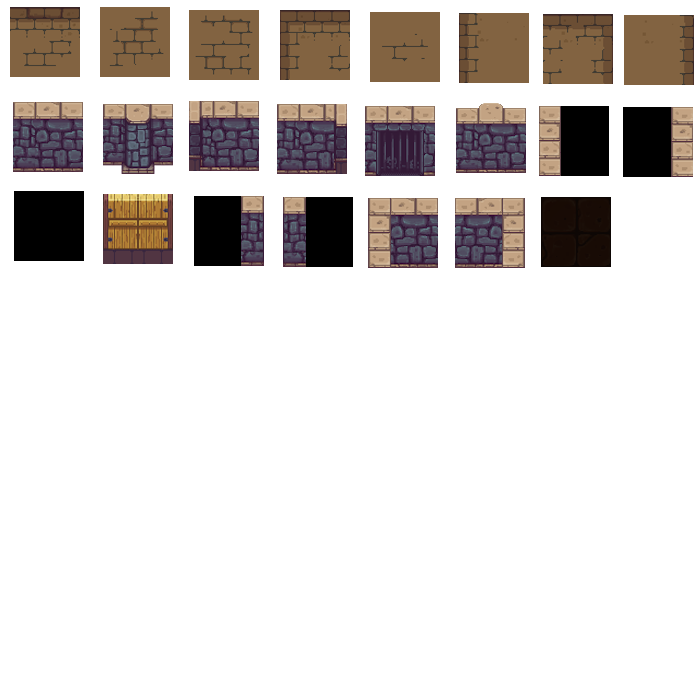
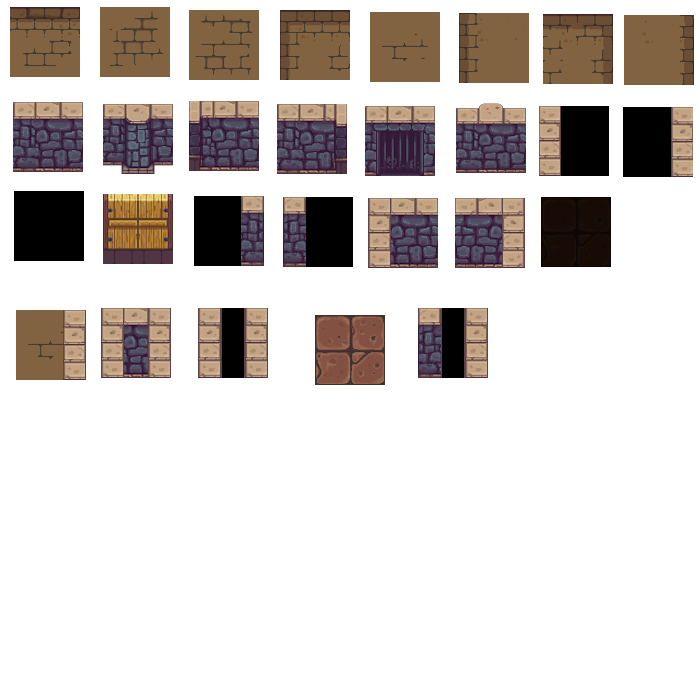
finish full map extension

Changed region(s): [[0.0, 0.42, 0.39, 0.54], [0.45, 0.45, 0.57, 0.57], [0.6, 0.42, 0.72, 0.54]]

diff --git a/dist/main.js b/dist/main.js
@@ -106,7 +106,7 @@ eval("__webpack_require__.r(__webpack_exports__);\n/* harmony export (binding) *
 /***/ (function(module, __webpack_exports__, __webpack_require__) {
 
 "use strict";
-eval("__webpack_require__.r(__webpack_exports__);\n/* harmony export (binding) */ __webpack_require__.d(__webpack_exports__, \"default\", function() { return Board; });\n/* harmony import */ var _player__WEBPACK_IMPORTED_MODULE_0__ = __webpack_require__(/*! ./player */ \"./src/player.js\");\n/* harmony import */ var _tile__WEBPACK_IMPORTED_MODULE_1__ = __webpack_require__(/*! ./tile */ \"./src/tile.js\");\n\r\n\r\n\r\nclass Board {\r\n  constructor() {\r\n    this.gameBoard = document.getElementById(\"gameBoard\"); \r\n    this.ctx = this.gameBoard.getContext('2d');\r\n    this.gameBoard.width = window.innerWidth;\r\n    this.gameBoard.height = window.innerHeight;\r\n    this.tileWidth = 70;\r\n    this.tileHeight = 70;\r\n    this.mapWidth = 36;\r\n    this.mapHeight = 31;\r\n    this.gameMap =  [\r\n  //   0   1   2   3  4   5   6   7   8   9   10  11  12  13  14  15  16  17  18  19  20  21  22  23  24  25  26  27  28  29  30  31  32  33  34  35\r\n      20, 20, 20, 20, 20, 20, 20, 20, 20, 20, 20, 20, 20, 20, 20, 20, 20, 20, 20, 28, 21, 21, 21, 21, 21, 14, 14, 14, 14, 14, 14, 14, 14, 14, 14, 14, // 0\r\n      20, 20, 20, 20, 20, 20, 20, 20, 20, 20, 20, 20, 20, 20, 20, 20, 20, 20, 20, 28, 18, 15, 15, 15, 15, 14, 14, 14, 14, 14, 14, 14, 14, 14, 14, 14,// 1\r\n      20, 20, 20, 20, 20, 20, 20, 20, 20, 20, 28, 21, 21, 21, 21, 21, 21, 21, 21, 21, 16, 14, 14, 14, 14, 14, 14, 14, 14, 14, 14, 14, 14, 14, 14, 14,// 2\r\n      20, 20, 20, 20, 20, 20, 20, 20, 20, 20, 28, 18, 15, 15, 15, 15, 15, 15, 15, 15, 14, 14, 14, 14, 14, 14, 14, 14, 14, 14, 14, 14, 14, 14, 14, 14,// 3\r\n      20, 20, 20, 20, 20, 20, 20, 20, 20, 20, 28, 16, 12, 12, 12, 12, 12, 12, 12, 12, 14, 14, 14, 14, 14, 14, 14, 14, 14, 14, 14, 14, 14, 14, 14, 14,// 4\r\n      20, 20, 20, 20, 20, 20, 20, 20, 20, 20, 28, 16, 12, 29, 20, 20, 20, 20, 20, 20, 14, 14, 14, 14, 14, 14, 14, 14, 14, 14, 14, 14, 14, 14, 14, 14,// 5\r\n      28, 21, 21, 21, 29, 20, 20, 20, 20, 20, 28, 16, 12, 29, 20, 20, 20, 20, 20, 20, 14, 14, 14, 14, 14, 14, 14, 14, 14, 14, 14, 14, 14, 14, 14, 14,// 6\r\n      28, 18, 15, 15, 29, 28, 21, 21, 21, 21, 25, 16, 14, 24, 21, 21, 21, 21, 21, 21, 14, 14, 14, 14, 14, 14, 14, 14, 14, 14, 14, 14, 14, 14, 14, 14,// 7\r\n      28, 16, 12, 14, 21, 21, 18, 15, 15, 15, 15, 14, 14, 15, 15, 15, 15, 15, 15, 15, 14, 14, 14, 14, 14, 14, 14, 14, 14, 14, 14, 14, 14, 14, 14, 14,// 8\r\n      28, 16, 12, 13, 15, 15, 12, 12, 14, 14, 14, 14, 14, 14, 14, 14, 14, 14, 14, 14, 14, 14, 14, 14, 14, 14, 14, 14, 14, 14, 14, 14, 14, 14, 14, 14,// 9\r\n      28, 16, 12, 12, 12, 13, 13, 12, 12, 12, 12, 12, 12, 12, 12, 12, 14, 14, 14, 14, 14, 14, 14, 14, 14, 14, 14, 14, 14, 14, 14, 14, 14, 14, 14, 14,// 10\r\n      28, 16, 14, 14, 14, 14, 13, 13, 12, 12, 12, 12, 12, 12, 12, 12, 12, 12, 12, 32, 33, 14, 14, 14, 14, 14, 14, 14, 14, 14, 14, 14, 14, 14, 14, 14,// 11\r\n      28, 16, 12, 12, 14, 14, 13, 12, 12, 12, 12, 12, 12, 12, 12, 12, 12, 12, 12, 29, 28, 14, 14, 14, 14, 14, 14, 14, 14, 14, 14, 14, 14, 14, 14, 14,// 12\r\n      28, 16, 12, 12, 32, 33, 16, 12, 12, 12, 12, 12, 12, 12, 12, 12, 12, 12, 12, 29, 28, 14, 14, 14, 14, 14, 14, 14, 14, 14, 14, 14, 14, 14, 14, 14,// 13\r\n      30, 21, 21, 21, 31, 30, 21, 21, 21, 21, 21, 21, 21, 21, 21, 21, 21, 21, 21, 31, 28, 14, 14, 14, 14, 14, 14, 14, 14, 14, 14, 14, 14, 14, 14, 14,// 14\r\n      20, 20, 20, 20, 20, 20, 20, 20, 20, 20, 20, 20, 20, 20, 20, 20, 20, 20, 20, 20, 28, 14, 14, 14, 14, 14, 14, 14, 14, 14, 14, 14, 14, 14, 14, 14,// 15\r\n      20, 20, 14, 14, 14, 14, 14, 14, 14, 14, 14, 14, 14, 14, 14, 14, 14, 14, 14, 14, 14, 14, 14, 14, 14, 14, 14, 14, 14, 14, 14, 14, 14, 14, 14, 14,// 16\r\n      20, 14, 14, 14, 14, 14, 14, 14, 14, 14, 14, 14, 14, 14, 14, 14, 14, 14, 14, 14, 14, 14, 14, 14, 14, 14, 14, 14, 14, 14, 14, 14, 14, 14, 14, 14,// 17\r\n      20, 14, 14, 14, 14, 20, 20, 20, 20, 14, 14, 14, 20, 20, 20, 20, 20, 20, 20, 20, 14, 14, 14, 14, 14, 14, 14, 14, 14, 14, 14, 14, 14, 14, 14, 14,// 18\r\n      20, 14, 14, 14, 14, 20, 20, 20, 20, 14, 14, 14, 20, 20, 20, 20, 20, 20, 20, 20, 14, 14, 14, 14, 14, 14, 14, 14, 14, 14, 14, 14, 14, 14, 14, 14,//19\r\n      20, 14, 14, 14, 14, 20, 20, 20, 20, 14, 14, 14, 20, 20, 20, 20, 20, 20, 20, 20, 14, 14, 14, 14, 14, 14, 14, 14, 14, 14, 14, 14, 14, 14, 14, 14,// 20\r\n      20, 14, 14, 14, 14, 20, 20, 20, 20, 21, 21, 21, 20, 20, 20, 20, 20, 20, 20, 20, 20, 20, 20, 20, 20, 14, 14, 14, 14, 14, 14, 14, 14, 14, 14, 14,// 21\r\n      20, 14, 14, 14, 14, 14, 14, 14, 14, 14, 14, 14, 20, 20, 20, 20, 20, 20, 20, 20, 14, 14, 14, 14, 14, 14, 14, 14, 14, 14, 14, 14, 14, 14, 14, 14,// 22\r\n      20, 20, 20, 20, 20, 20, 20, 20, 20, 14, 14, 14, 20, 20, 20, 20, 20, 20, 20, 20, 14, 14, 14, 14, 14, 14, 14, 14, 14, 14, 14, 14, 14, 14, 14, 14,// 23\r\n      20, 20, 20, 20, 20, 20, 20, 20, 20, 14, 14, 14, 20, 20, 20, 20, 20, 20, 20, 20, 14, 14, 14, 14, 14, 14, 14, 14, 14, 14, 14, 14, 14, 14, 14, 14,// 24\r\n      20, 20, 20, 20, 20, 20, 20, 20, 20, 14, 14, 14, 20, 20, 20, 20, 20, 20, 20, 20, 14, 14, 14, 14, 14, 14, 14, 14, 14, 14, 14, 14, 14, 14, 14, 14,// 25\r\n      20, 20, 20, 20, 20, 20, 20, 20, 20, 14, 14, 14, 20, 20, 20, 20, 20, 20, 20, 20, 14, 14, 14, 14, 14, 14, 14, 14, 14, 14, 14, 14, 14, 14, 14, 14,// 26\r\n      20, 20, 20, 20, 20, 20, 20, 20, 20, 20, 20, 20, 20, 20, 20, 20, 20, 20, 20, 20, 14, 14, 14, 14, 14, 14, 14, 14, 14, 14, 14, 14, 14, 14, 14, 14,// 27\r\n      20, 20, 20, 20, 20, 20, 20, 20, 20, 20, 20, 20, 20, 20, 20, 20, 20, 20, 20, 20, 14, 14, 14, 14, 14, 14, 14, 14, 14, 14, 14, 14, 14, 14, 14, 14,// 28\r\n      20, 20, 20, 20, 20, 20, 20, 20, 20, 20, 20, 20, 20, 20, 20, 20, 20, 20, 20, 20, 14, 14, 14, 14, 14, 14, 14, 14, 14, 14, 14, 14, 14, 14, 14, 14,// 29\r\n      20, 20, 20, 20, 20, 20, 20, 20, 20, 20, 20, 20, 20, 20, 20, 20, 20, 20, 20, 20, 14, 14, 14, 14, 14, 14, 14, 14, 14, 14, 14, 14, 14, 14, 14, 14// 30\r\n\r\n    ]; \r\n    \r\n    this.viewPort = {\r\n      screen: [0, 0],\r\n      startTile: [0, 0],\r\n      endTile: [0, 0],\r\n      offset: [0, 0],\r\n      update: function(px, py) {\r\n        this.offset[0] = Math.floor((this.screen[0] / 2) - px)\r\n        this.offset[1] = Math.floor((this.screen[1] / 2) - py)\r\n\r\n        let tile = [ Math.floor(px / 70), Math.floor(py / 70) ]\r\n\r\n        this.startTile[0] = tile[0] - 1 - Math.ceil((this.screen[0] / 2) / 70)\r\n        this.startTile[1] = tile[1] - 1 - Math.ceil((this.screen[1] / 2) / 70)\r\n\r\n        if (this.startTile[0] < 0) this.startTile[0] = 0;\r\n        if (this.startTile[1] < 0) this.startTile[1] = 0;\r\n\r\n\r\n        this.endTile[0] = tile[0] + 1 + Math.ceil((this.screen[0] / 2) / 70)\r\n        this.endTile[1] = tile[1] + 1 + Math.ceil((this.screen[1] / 2) / 70)\r\n\r\n        if (this.endTile[0] >= 37) this.endTile[0] = 37 - 1;\r\n        if (this.endTile[1] >= 32) this.endTile[1] = 32 - 1;\r\n      }\r\n    }\r\n    \r\n    this.floorTypes = {\r\n      solid: 0,\r\n      walkable: 1\r\n    };\r\n\r\n\r\n    this.tileTypes = {\r\n      20: { type: \"outOfMap\", floor: this.floorTypes.solid, sprite: new _tile__WEBPACK_IMPORTED_MODULE_1__[\"default\"]([14, 191], [70, 70]) },\r\n      21: { type: \"xWall\", floor: this.floorTypes.solid, sprite: new _tile__WEBPACK_IMPORTED_MODULE_1__[\"default\"]([13, 102], [70, 70]) },\r\n      22: { type: \"xWallPillDown\", floor: this.floorTypes.solid, sprite: new _tile__WEBPACK_IMPORTED_MODULE_1__[\"default\"]([103, 104], [70, 70]) },\r\n      23: { type: \"xWallPillUp\", floor: this.floorTypes.solid, sprite: new _tile__WEBPACK_IMPORTED_MODULE_1__[\"default\"]([456, 108], [70, 70]) },\r\n      24: { type: \"xWallDoorFrameR\", floor: this.floorTypes.solid, sprite: new _tile__WEBPACK_IMPORTED_MODULE_1__[\"default\"]([189, 101], [70, 70]) },\r\n      25: { type: \"xWallDoorFrameL\", floor: this.floorTypes.solid, sprite: new _tile__WEBPACK_IMPORTED_MODULE_1__[\"default\"]([277, 105], [70, 69]) },\r\n      26: { type: \"xDoor\", floor: this.floorTypes.solid, sprite: new _tile__WEBPACK_IMPORTED_MODULE_1__[\"default\"]([103, 194], [70, 70]) },\r\n      27: { type: \"xWallDecor\", floor: this.floorTypes.solid, sprite: new _tile__WEBPACK_IMPORTED_MODULE_1__[\"default\"]([165, 106], [70, 70]) },\r\n      28: { type: \"yWallL\", floor: this.floorTypes.solid, sprite: new _tile__WEBPACK_IMPORTED_MODULE_1__[\"default\"]([623, 107], [70, 70]) },\r\n      29: { type: \"yWallR\", floor: this.floorTypes.solid, sprite: new _tile__WEBPACK_IMPORTED_MODULE_1__[\"default\"]([539, 106], [70, 70]) },\r\n      // 10: { type: \"yDoor\", floor: this.floorTypes.solid, sprite: new Tile([13, 95], [70, 70]) },\r\n      // 11: { type: \"spikes\", floor: this.floorTypes.solid, sprite: new Tile([13, 95], [70, 70]) },\r\n      12: { type: \"groundReg\", floor: this.floorTypes.walkable, sprite: new _tile__WEBPACK_IMPORTED_MODULE_1__[\"default\"]([100, 7], [70, 70]) },\r\n      13: { type: \"groundReg2\", floor: this.floorTypes.walkable, sprite: new _tile__WEBPACK_IMPORTED_MODULE_1__[\"default\"]([189, 10], [70, 70]) },\r\n      14: { type: \"groundReg3\", floor: this.floorTypes.walkable, sprite: new _tile__WEBPACK_IMPORTED_MODULE_1__[\"default\"]([370, 12], [70, 70]) },\r\n      15: { type: \"groundTop\", floor: this.floorTypes.walkable, sprite: new _tile__WEBPACK_IMPORTED_MODULE_1__[\"default\"]([10, 7], [70, 70]) },\r\n      16: { type: \"groundL\", floor: this.floorTypes.walkable, sprite: new _tile__WEBPACK_IMPORTED_MODULE_1__[\"default\"]([459, 13], [70, 70]) },\r\n      17: { type: \"groundR\", floor: this.floorTypes.walkable, sprite: new _tile__WEBPACK_IMPORTED_MODULE_1__[\"default\"]([624, 15], [70, 70]) },\r\n      18: { type: \"groundLCorner\", floor: this.floorTypes.walkable, sprite: new _tile__WEBPACK_IMPORTED_MODULE_1__[\"default\"]([280, 10], [70, 70]) },\r\n      19: { type: \"groundRCorner\", floor: this.floorTypes.walkable, sprite: new _tile__WEBPACK_IMPORTED_MODULE_1__[\"default\"]([543, 14], [70, 70]) },\r\n      30: { type: \"bottomCornerPillL\", floor: this.floorTypes.solid, sprite: new _tile__WEBPACK_IMPORTED_MODULE_1__[\"default\"]([194, 196], [70, 70]) },\r\n      31: { type: \"bottomCornerPillR\", floor: this.floorTypes.solid, sprite: new _tile__WEBPACK_IMPORTED_MODULE_1__[\"default\"]([283, 197], [70, 70]) },\r\n      32: { type: \"bottomCornerUpL\", floor: this.floorTypes.solid, sprite: new _tile__WEBPACK_IMPORTED_MODULE_1__[\"default\"]([368, 198], [70, 70]) },\r\n      33: { type: \"bottomCornerUpR\", floor: this.floorTypes.solid, sprite: new _tile__WEBPACK_IMPORTED_MODULE_1__[\"default\"]([455, 198], [70, 70]) }\r\n    };\r\n\r\n    // this.directions = {\r\n    //   up: 0,\r\n    //   right: 1,\r\n    //   down: 2,\r\n    //   left: 3\r\n    // };\r\n  }\r\n\r\n\r\n};\r\n\r\n\r\n\n\n//# sourceURL=webpack:///./src/board.js?");
+eval("__webpack_require__.r(__webpack_exports__);\n/* harmony export (binding) */ __webpack_require__.d(__webpack_exports__, \"default\", function() { return Board; });\n/* harmony import */ var _player__WEBPACK_IMPORTED_MODULE_0__ = __webpack_require__(/*! ./player */ \"./src/player.js\");\n/* harmony import */ var _tile__WEBPACK_IMPORTED_MODULE_1__ = __webpack_require__(/*! ./tile */ \"./src/tile.js\");\n\r\n\r\n\r\nclass Board {\r\n  constructor() {\r\n    this.gameBoard = document.getElementById(\"gameBoard\"); \r\n    this.ctx = this.gameBoard.getContext('2d');\r\n    this.gameBoard.width = window.innerWidth;\r\n    this.gameBoard.height = window.innerHeight;\r\n    this.tileWidth = 70;\r\n    this.tileHeight = 70;\r\n    this.mapWidth = 36;\r\n    this.mapHeight = 31;\r\n    this.gameMap =  [\r\n  //   0   1   2   3  4   5   6   7   8   9   10  11  12  13  14  15  16  17  18  19  20  21  22  23  24  25  26  27  28  29  30  31  32  33  34  35\r\n      20, 20, 20, 20, 20, 20, 20, 20, 20, 20, 20, 20, 20, 20, 20, 20, 20, 20, 20, 28, 21, 21, 21, 21, 21, 21, 21, 21, 21, 21, 21, 21, 21, 21, 21, 29, // 0\r\n      20, 20, 20, 20, 20, 20, 20, 20, 20, 20, 20, 20, 20, 20, 20, 20, 20, 20, 20, 28, 18, 15, 15, 15, 15, 14, 14, 14, 14, 14, 14, 14, 14, 14, 14, 29,// 1\r\n      20, 20, 20, 20, 20, 20, 20, 20, 20, 20, 28, 21, 21, 21, 21, 21, 21, 21, 21, 21, 16, 14, 14, 14, 14, 14, 14, 14, 14, 14, 14, 14, 14, 14, 14, 29,// 2\r\n      20, 20, 20, 20, 20, 20, 20, 20, 20, 20, 28, 18, 15, 15, 15, 15, 15, 15, 15, 15, 14, 14, 14, 32, 21, 21, 33, 14, 14, 32, 21, 21, 33, 14, 14, 29,// 3\r\n      20, 20, 20, 20, 20, 20, 20, 20, 20, 20, 28, 16, 12, 12, 12, 12, 12, 12, 12, 12, 14, 14, 14, 29, 20, 20, 28, 14, 14, 29, 20, 20, 28, 14, 14, 29,// 4\r\n      20, 20, 20, 20, 20, 20, 20, 20, 20, 20, 28, 16, 12, 32, 21, 21, 21, 21, 21, 33, 16, 14, 14, 29, 28, 21, 21, 14, 14, 21, 21, 29, 28, 14, 14, 29,// 5\r\n      28, 21, 21, 21, 29, 20, 20, 20, 20, 20, 28, 16, 12, 29, 20, 20, 20, 20, 20, 28, 16, 14, 14, 29, 28, 14, 14, 14, 14, 14, 14, 29, 30, 33, 14, 29,// 6\r\n      28, 18, 15, 15, 29, 28, 21, 21, 21, 21, 25, 16, 14, 24, 21, 21, 21, 21, 21, 21, 16, 14, 14, 29, 28, 14, 14, 14, 14, 14, 14, 29, 20, 28, 14, 29,// 7\r\n      28, 16, 12, 14, 21, 21, 18, 15, 15, 15, 15, 14, 14, 15, 15, 15, 15, 15, 15, 15, 14, 14, 14, 29, 28, 14, 14, 14, 14, 14, 14, 29, 28, 21, 14, 29,// 8\r\n      28, 16, 12, 13, 15, 15, 12, 12, 14, 14, 14, 14, 14, 14, 14, 14, 14, 14, 14, 14, 14, 14, 14, 29, 28, 14, 14, 14, 14, 14, 14, 29, 28, 14, 14, 29,// 9\r\n      28, 16, 12, 12, 12, 13, 13, 12, 12, 12, 12, 12, 12, 12, 12, 12, 14, 14, 14, 14, 14, 14, 14, 29, 28, 14, 14, 14, 14, 14, 14, 29, 28, 14, 32, 31,// 10\r\n      28, 16, 14, 14, 14, 14, 13, 13, 12, 12, 12, 12, 12, 12, 12, 12, 12, 12, 12, 32, 33, 14, 14, 29, 28, 14, 14, 14, 14, 14, 14, 29, 28, 14, 29, 20,// 11\r\n      28, 16, 12, 12, 14, 14, 13, 12, 12, 12, 12, 12, 12, 12, 12, 12, 12, 12, 12, 29, 28, 14, 14, 21, 21, 14, 14, 14, 14, 14, 14, 21, 21, 14, 21, 33,// 12\r\n      28, 16, 12, 12, 32, 33, 16, 12, 12, 12, 12, 12, 12, 12, 12, 12, 12, 12, 12, 29, 28, 14, 14, 14, 14, 14, 14, 14, 14, 14, 14, 14, 14, 14, 14, 36,// 13\r\n      30, 21, 21, 21, 31, 30, 21, 21, 33, 21, 21, 21, 32, 21, 21, 21, 21, 21, 21, 31, 28, 14, 14, 32, 33, 14, 14, 14, 14, 14, 14, 32, 21, 33, 14, 36,// 14\r\n      20, 20, 20, 20, 20, 20, 20, 20, 28, 14, 14, 14, 29, 20, 20, 20, 20, 20, 20, 20, 28, 14, 14, 29, 28, 14, 14, 14, 14, 14, 14, 29, 20, 28, 14, 36,// 15\r\n      28, 21, 21, 21, 21, 21, 21, 21, 21, 14, 14, 14, 21, 21, 21, 21, 21, 21, 21, 21, 21, 14, 14, 29, 28, 14, 14, 14, 14, 14, 14, 29, 20, 28, 14, 36,// 16\r\n      28, 14, 14, 14, 14, 14, 14, 14, 14, 14, 14, 14, 14, 14, 14, 14, 14, 14, 14, 14, 14, 14, 14, 29, 30, 21, 33, 14, 14, 32, 21, 31, 28, 21, 14, 32,// 17\r\n      28, 14, 14, 14, 14, 32, 21, 21, 33, 14, 14, 14, 14, 14, 14, 14, 14, 14, 14, 14, 14, 14, 14, 29, 20, 20, 28, 14, 14, 29, 20, 20, 28, 14, 14, 29,// 18\r\n      28, 14, 14, 14, 14, 29, 20, 20, 28, 14, 14, 14, 35, 21, 21, 21, 21, 21, 21, 35, 14, 14, 14, 21, 21, 21, 21, 14, 14, 21, 21, 21, 21, 14, 14, 29,//19\r\n      28, 14, 14, 14, 14, 29, 20, 20, 28, 14, 14, 14, 34, 14, 14, 12, 12, 12, 12, 34, 14, 14, 14, 14, 14, 14, 14, 14, 14, 14, 14, 14, 14, 14, 14, 29,// 20\r\n      28, 14, 14, 14, 14, 29, 20, 20, 30, 21, 21, 21, 37, 14, 14, 12, 12, 12, 12, 34, 21, 21, 21, 21, 33, 14, 14, 14, 14, 14, 32, 21, 33, 14, 14, 33,// 21\r\n      28, 14, 14, 14, 14, 29, 20, 20, 20, 20, 20, 20, 28, 14, 14, 12, 12, 12, 12, 34, 20, 20, 20, 20, 28, 14, 14, 14, 14, 14, 29, 20, 28, 14, 14, 36,// 22\r\n      28, 14, 32, 21, 21, 31, 20, 20, 20, 20, 20, 20, 28, 14, 14, 12, 12, 12, 12, 34, 20, 20, 20, 20, 28, 14, 14, 14, 14, 14, 29, 28, 21, 14, 14, 36,// 23\r\n      28, 14, 29, 20, 20, 20, 20, 20, 20, 20, 20, 20, 28, 14, 14, 12, 12, 12, 12, 34, 20, 20, 20, 20, 28, 14, 14, 14, 14, 14, 29, 28, 14, 14, 14, 36,// 24\r\n      28, 14, 21, 21, 21, 21, 21, 29, 20, 20, 20, 20, 28, 14, 14, 12, 12, 12, 12, 34, 20, 20, 20, 20, 28, 14, 14, 14, 14, 14, 29, 28, 14, 14, 14, 36,// 25\r\n      28, 14, 14, 14, 14, 14, 14, 29, 20, 28, 21, 21, 34, 14, 14, 12, 32, 21, 21, 37, 21, 21, 21, 21, 21, 21, 21, 21, 21, 21, 29, 30, 21, 33, 14, 36,// 26\r\n      30, 33, 14, 14, 14, 14, 14, 29, 20, 28, 14, 14, 21, 14, 14, 12, 29, 20, 20, 28, 14, 14, 14, 14, 14, 14, 14, 14, 14, 14, 29, 20, 20, 28, 14, 36,// 27\r\n      20, 28, 14, 14, 14, 14, 14, 21, 21, 21, 14, 14, 14, 14, 14, 12, 21, 21, 21, 21, 14, 32, 21, 21, 21, 21, 33, 14, 14, 14, 21, 21, 21, 21, 14, 36,// 28\r\n      20, 28, 14, 14, 14, 14, 14, 14, 14, 14, 14, 14, 32, 33, 14, 12, 14, 14, 14, 14, 14, 29, 20, 20, 20, 20, 28, 14, 14, 14, 14, 14, 14, 14, 14, 36,// 29\r\n      20, 30, 21, 21, 21, 21, 21, 21, 21, 21, 21, 21, 31, 30, 21, 21, 21, 21, 21, 21, 21, 31, 20, 20, 20, 20, 30, 21, 21, 21, 21, 21, 21, 21, 21, 21// 30\r\n\r\n    ]; \r\n    \r\n    this.viewPort = {\r\n      screen: [0, 0],\r\n      startTile: [0, 0],\r\n      endTile: [0, 0],\r\n      offset: [0, 0],\r\n      update: function(px, py) {\r\n        this.offset[0] = Math.floor((this.screen[0] / 2) - px)\r\n        this.offset[1] = Math.floor((this.screen[1] / 2) - py)\r\n\r\n        let tile = [ Math.floor(px / 70), Math.floor(py / 70) ]\r\n\r\n        this.startTile[0] = tile[0] - 1 - Math.ceil((this.screen[0] / 2) / 70)\r\n        this.startTile[1] = tile[1] - 1 - Math.ceil((this.screen[1] / 2) / 70)\r\n\r\n        if (this.startTile[0] < 0) this.startTile[0] = 0;\r\n        if (this.startTile[1] < 0) this.startTile[1] = 0;\r\n\r\n\r\n        this.endTile[0] = tile[0] + 1 + Math.ceil((this.screen[0] / 2) / 70)\r\n        this.endTile[1] = tile[1] + 1 + Math.ceil((this.screen[1] / 2) / 70)\r\n\r\n        if (this.endTile[0] >= 37) this.endTile[0] = 37 - 1;\r\n        if (this.endTile[1] >= 32) this.endTile[1] = 32 - 1;\r\n      }\r\n    }\r\n    \r\n    this.floorTypes = {\r\n      solid: 0,\r\n      walkable: 1\r\n    };\r\n\r\n\r\n    this.tileTypes = {\r\n      20: { type: \"outOfMap\", floor: this.floorTypes.solid, sprite: new _tile__WEBPACK_IMPORTED_MODULE_1__[\"default\"]([14, 191], [70, 70]) },\r\n      21: { type: \"xWall\", floor: this.floorTypes.solid, sprite: new _tile__WEBPACK_IMPORTED_MODULE_1__[\"default\"]([13, 102], [70, 70]) },\r\n      22: { type: \"xWallPillDown\", floor: this.floorTypes.solid, sprite: new _tile__WEBPACK_IMPORTED_MODULE_1__[\"default\"]([103, 104], [70, 70]) },\r\n      23: { type: \"xWallPillUp\", floor: this.floorTypes.solid, sprite: new _tile__WEBPACK_IMPORTED_MODULE_1__[\"default\"]([456, 108], [70, 70]) },\r\n      24: { type: \"xWallDoorFrameR\", floor: this.floorTypes.solid, sprite: new _tile__WEBPACK_IMPORTED_MODULE_1__[\"default\"]([189, 101], [70, 70]) },\r\n      25: { type: \"xWallDoorFrameL\", floor: this.floorTypes.solid, sprite: new _tile__WEBPACK_IMPORTED_MODULE_1__[\"default\"]([277, 105], [70, 69]) },\r\n      26: { type: \"xDoor\", floor: this.floorTypes.solid, sprite: new _tile__WEBPACK_IMPORTED_MODULE_1__[\"default\"]([103, 194], [70, 70]) },\r\n      27: { type: \"xWallDecor\", floor: this.floorTypes.solid, sprite: new _tile__WEBPACK_IMPORTED_MODULE_1__[\"default\"]([165, 106], [70, 70]) },\r\n      28: { type: \"yWallL\", floor: this.floorTypes.solid, sprite: new _tile__WEBPACK_IMPORTED_MODULE_1__[\"default\"]([623, 107], [70, 70]) },\r\n      29: { type: \"yWallR\", floor: this.floorTypes.solid, sprite: new _tile__WEBPACK_IMPORTED_MODULE_1__[\"default\"]([539, 106], [70, 70]) },\r\n      // 10: { type: \"yDoor\", floor: this.floorTypes.solid, sprite: new Tile([13, 95], [70, 70]) },\r\n      // 11: { type: \"spikes\", floor: this.floorTypes.solid, sprite: new Tile([13, 95], [70, 70]) },\r\n      12: { type: \"groundReg\", floor: this.floorTypes.walkable, sprite: new _tile__WEBPACK_IMPORTED_MODULE_1__[\"default\"]([100, 7], [70, 70]) },\r\n      13: { type: \"groundReg2\", floor: this.floorTypes.walkable, sprite: new _tile__WEBPACK_IMPORTED_MODULE_1__[\"default\"]([189, 10], [70, 70]) },\r\n      14: { type: \"groundReg3\", floor: this.floorTypes.walkable, sprite: new _tile__WEBPACK_IMPORTED_MODULE_1__[\"default\"]([370, 12], [70, 70]) },\r\n      15: { type: \"groundTop\", floor: this.floorTypes.walkable, sprite: new _tile__WEBPACK_IMPORTED_MODULE_1__[\"default\"]([10, 7], [70, 70]) },\r\n      16: { type: \"groundL\", floor: this.floorTypes.walkable, sprite: new _tile__WEBPACK_IMPORTED_MODULE_1__[\"default\"]([459, 13], [70, 70]) },\r\n      17: { type: \"groundR\", floor: this.floorTypes.walkable, sprite: new _tile__WEBPACK_IMPORTED_MODULE_1__[\"default\"]([624, 15], [70, 70]) },\r\n      18: { type: \"groundLCorner\", floor: this.floorTypes.walkable, sprite: new _tile__WEBPACK_IMPORTED_MODULE_1__[\"default\"]([280, 10], [70, 70]) },\r\n      19: { type: \"groundRCorner\", floor: this.floorTypes.walkable, sprite: new _tile__WEBPACK_IMPORTED_MODULE_1__[\"default\"]([543, 14], [70, 70]) },\r\n      30: { type: \"bottomCornerPillL\", floor: this.floorTypes.solid, sprite: new _tile__WEBPACK_IMPORTED_MODULE_1__[\"default\"]([194, 196], [70, 70]) },\r\n      31: { type: \"bottomCornerPillR\", floor: this.floorTypes.solid, sprite: new _tile__WEBPACK_IMPORTED_MODULE_1__[\"default\"]([283, 197], [70, 70]) },\r\n      32: { type: \"bottomCornerUpL\", floor: this.floorTypes.solid, sprite: new _tile__WEBPACK_IMPORTED_MODULE_1__[\"default\"]([368, 198], [70, 70]) },\r\n      33: { type: \"bottomCornerUpR\", floor: this.floorTypes.solid, sprite: new _tile__WEBPACK_IMPORTED_MODULE_1__[\"default\"]([455, 198], [70, 70]) },\r\n      34: { type: \"narrowYL\", floor: this.floorTypes.solid, sprite: new _tile__WEBPACK_IMPORTED_MODULE_1__[\"default\"]([198, 308], [70, 70]) },\r\n      35: { type: \"narrowRL\", floor: this.floorTypes.solid, sprite: new _tile__WEBPACK_IMPORTED_MODULE_1__[\"default\"]([101, 308], [70, 70]) },\r\n      36: { type: \"mazeR\", floor: this.floorTypes.walkable, sprite: new _tile__WEBPACK_IMPORTED_MODULE_1__[\"default\"]([16, 310], [70, 70]) },\r\n      37: { type: \"narrowCustom\", floor: this.floorTypes.solid, sprite: new _tile__WEBPACK_IMPORTED_MODULE_1__[\"default\"]([418, 308], [70, 70]) }\r\n    };\r\n\r\n    // this.directions = {\r\n    //   up: 0,\r\n    //   right: 1,\r\n    //   down: 2,\r\n    //   left: 3\r\n    // };\r\n  }\r\n\r\n\r\n};\r\n\r\n\r\n\n\n//# sourceURL=webpack:///./src/board.js?");
 
 /***/ }),
 

diff --git a/src/board.js b/src/board.js
@@ -13,37 +13,37 @@ export default class Board {
     this.mapHeight = 31;
     this.gameMap =  [
   //   0   1   2   3  4   5   6   7   8   9   10  11  12  13  14  15  16  17  18  19  20  21  22  23  24  25  26  27  28  29  30  31  32  33  34  35
-      20, 20, 20, 20, 20, 20, 20, 20, 20, 20, 20, 20, 20, 20, 20, 20, 20, 20, 20, 28, 21, 21, 21, 21, 21, 14, 14, 14, 14, 14, 14, 14, 14, 14, 14, 14, // 0
-      20, 20, 20, 20, 20, 20, 20, 20, 20, 20, 20, 20, 20, 20, 20, 20, 20, 20, 20, 28, 18, 15, 15, 15, 15, 14, 14, 14, 14, 14, 14, 14, 14, 14, 14, 14,// 1
-      20, 20, 20, 20, 20, 20, 20, 20, 20, 20, 28, 21, 21, 21, 21, 21, 21, 21, 21, 21, 16, 14, 14, 14, 14, 14, 14, 14, 14, 14, 14, 14, 14, 14, 14, 14,// 2
-      20, 20, 20, 20, 20, 20, 20, 20, 20, 20, 28, 18, 15, 15, 15, 15, 15, 15, 15, 15, 14, 14, 14, 14, 14, 14, 14, 14, 14, 14, 14, 14, 14, 14, 14, 14,// 3
-      20, 20, 20, 20, 20, 20, 20, 20, 20, 20, 28, 16, 12, 12, 12, 12, 12, 12, 12, 12, 14, 14, 14, 14, 14, 14, 14, 14, 14, 14, 14, 14, 14, 14, 14, 14,// 4
-      20, 20, 20, 20, 20, 20, 20, 20, 20, 20, 28, 16, 12, 29, 20, 20, 20, 20, 20, 20, 14, 14, 14, 14, 14, 14, 14, 14, 14, 14, 14, 14, 14, 14, 14, 14,// 5
-      28, 21, 21, 21, 29, 20, 20, 20, 20, 20, 28, 16, 12, 29, 20, 20, 20, 20, 20, 20, 14, 14, 14, 14, 14, 14, 14, 14, 14, 14, 14, 14, 14, 14, 14, 14,// 6
-      28, 18, 15, 15, 29, 28, 21, 21, 21, 21, 25, 16, 14, 24, 21, 21, 21, 21, 21, 21, 14, 14, 14, 14, 14, 14, 14, 14, 14, 14, 14, 14, 14, 14, 14, 14,// 7
-      28, 16, 12, 14, 21, 21, 18, 15, 15, 15, 15, 14, 14, 15, 15, 15, 15, 15, 15, 15, 14, 14, 14, 14, 14, 14, 14, 14, 14, 14, 14, 14, 14, 14, 14, 14,// 8
-      28, 16, 12, 13, 15, 15, 12, 12, 14, 14, 14, 14, 14, 14, 14, 14, 14, 14, 14, 14, 14, 14, 14, 14, 14, 14, 14, 14, 14, 14, 14, 14, 14, 14, 14, 14,// 9
-      28, 16, 12, 12, 12, 13, 13, 12, 12, 12, 12, 12, 12, 12, 12, 12, 14, 14, 14, 14, 14, 14, 14, 14, 14, 14, 14, 14, 14, 14, 14, 14, 14, 14, 14, 14,// 10
-      28, 16, 14, 14, 14, 14, 13, 13, 12, 12, 12, 12, 12, 12, 12, 12, 12, 12, 12, 32, 33, 14, 14, 14, 14, 14, 14, 14, 14, 14, 14, 14, 14, 14, 14, 14,// 11
-      28, 16, 12, 12, 14, 14, 13, 12, 12, 12, 12, 12, 12, 12, 12, 12, 12, 12, 12, 29, 28, 14, 14, 14, 14, 14, 14, 14, 14, 14, 14, 14, 14, 14, 14, 14,// 12
-      28, 16, 12, 12, 32, 33, 16, 12, 12, 12, 12, 12, 12, 12, 12, 12, 12, 12, 12, 29, 28, 14, 14, 14, 14, 14, 14, 14, 14, 14, 14, 14, 14, 14, 14, 14,// 13
-      30, 21, 21, 21, 31, 30, 21, 21, 21, 21, 21, 21, 21, 21, 21, 21, 21, 21, 21, 31, 28, 14, 14, 14, 14, 14, 14, 14, 14, 14, 14, 14, 14, 14, 14, 14,// 14
-      20, 20, 20, 20, 20, 20, 20, 20, 20, 20, 20, 20, 20, 20, 20, 20, 20, 20, 20, 20, 28, 14, 14, 14, 14, 14, 14, 14, 14, 14, 14, 14, 14, 14, 14, 14,// 15
-      20, 20, 14, 14, 14, 14, 14, 14, 14, 14, 14, 14, 14, 14, 14, 14, 14, 14, 14, 14, 14, 14, 14, 14, 14, 14, 14, 14, 14, 14, 14, 14, 14, 14, 14, 14,// 16
-      20, 14, 14, 14, 14, 14, 14, 14, 14, 14, 14, 14, 14, 14, 14, 14, 14, 14, 14, 14, 14, 14, 14, 14, 14, 14, 14, 14, 14, 14, 14, 14, 14, 14, 14, 14,// 17
-      20, 14, 14, 14, 14, 20, 20, 20, 20, 14, 14, 14, 20, 20, 20, 20, 20, 20, 20, 20, 14, 14, 14, 14, 14, 14, 14, 14, 14, 14, 14, 14, 14, 14, 14, 14,// 18
-      20, 14, 14, 14, 14, 20, 20, 20, 20, 14, 14, 14, 20, 20, 20, 20, 20, 20, 20, 20, 14, 14, 14, 14, 14, 14, 14, 14, 14, 14, 14, 14, 14, 14, 14, 14,//19
-      20, 14, 14, 14, 14, 20, 20, 20, 20, 14, 14, 14, 20, 20, 20, 20, 20, 20, 20, 20, 14, 14, 14, 14, 14, 14, 14, 14, 14, 14, 14, 14, 14, 14, 14, 14,// 20
-      20, 14, 14, 14, 14, 20, 20, 20, 20, 21, 21, 21, 20, 20, 20, 20, 20, 20, 20, 20, 20, 20, 20, 20, 20, 14, 14, 14, 14, 14, 14, 14, 14, 14, 14, 14,// 21
-      20, 14, 14, 14, 14, 14, 14, 14, 14, 14, 14, 14, 20, 20, 20, 20, 20, 20, 20, 20, 14, 14, 14, 14, 14, 14, 14, 14, 14, 14, 14, 14, 14, 14, 14, 14,// 22
-      20, 20, 20, 20, 20, 20, 20, 20, 20, 14, 14, 14, 20, 20, 20, 20, 20, 20, 20, 20, 14, 14, 14, 14, 14, 14, 14, 14, 14, 14, 14, 14, 14, 14, 14, 14,// 23
-      20, 20, 20, 20, 20, 20, 20, 20, 20, 14, 14, 14, 20, 20, 20, 20, 20, 20, 20, 20, 14, 14, 14, 14, 14, 14, 14, 14, 14, 14, 14, 14, 14, 14, 14, 14,// 24
-      20, 20, 20, 20, 20, 20, 20, 20, 20, 14, 14, 14, 20, 20, 20, 20, 20, 20, 20, 20, 14, 14, 14, 14, 14, 14, 14, 14, 14, 14, 14, 14, 14, 14, 14, 14,// 25
-      20, 20, 20, 20, 20, 20, 20, 20, 20, 14, 14, 14, 20, 20, 20, 20, 20, 20, 20, 20, 14, 14, 14, 14, 14, 14, 14, 14, 14, 14, 14, 14, 14, 14, 14, 14,// 26
-      20, 20, 20, 20, 20, 20, 20, 20, 20, 20, 20, 20, 20, 20, 20, 20, 20, 20, 20, 20, 14, 14, 14, 14, 14, 14, 14, 14, 14, 14, 14, 14, 14, 14, 14, 14,// 27
-      20, 20, 20, 20, 20, 20, 20, 20, 20, 20, 20, 20, 20, 20, 20, 20, 20, 20, 20, 20, 14, 14, 14, 14, 14, 14, 14, 14, 14, 14, 14, 14, 14, 14, 14, 14,// 28
-      20, 20, 20, 20, 20, 20, 20, 20, 20, 20, 20, 20, 20, 20, 20, 20, 20, 20, 20, 20, 14, 14, 14, 14, 14, 14, 14, 14, 14, 14, 14, 14, 14, 14, 14, 14,// 29
-      20, 20, 20, 20, 20, 20, 20, 20, 20, 20, 20, 20, 20, 20, 20, 20, 20, 20, 20, 20, 14, 14, 14, 14, 14, 14, 14, 14, 14, 14, 14, 14, 14, 14, 14, 14// 30
+      20, 20, 20, 20, 20, 20, 20, 20, 20, 20, 20, 20, 20, 20, 20, 20, 20, 20, 20, 28, 21, 21, 21, 21, 21, 21, 21, 21, 21, 21, 21, 21, 21, 21, 21, 29, // 0
+      20, 20, 20, 20, 20, 20, 20, 20, 20, 20, 20, 20, 20, 20, 20, 20, 20, 20, 20, 28, 18, 15, 15, 15, 15, 14, 14, 14, 14, 14, 14, 14, 14, 14, 14, 29,// 1
+      20, 20, 20, 20, 20, 20, 20, 20, 20, 20, 28, 21, 21, 21, 21, 21, 21, 21, 21, 21, 16, 14, 14, 14, 14, 14, 14, 14, 14, 14, 14, 14, 14, 14, 14, 29,// 2
+      20, 20, 20, 20, 20, 20, 20, 20, 20, 20, 28, 18, 15, 15, 15, 15, 15, 15, 15, 15, 14, 14, 14, 32, 21, 21, 33, 14, 14, 32, 21, 21, 33, 14, 14, 29,// 3
+      20, 20, 20, 20, 20, 20, 20, 20, 20, 20, 28, 16, 12, 12, 12, 12, 12, 12, 12, 12, 14, 14, 14, 29, 20, 20, 28, 14, 14, 29, 20, 20, 28, 14, 14, 29,// 4
+      20, 20, 20, 20, 20, 20, 20, 20, 20, 20, 28, 16, 12, 32, 21, 21, 21, 21, 21, 33, 16, 14, 14, 29, 28, 21, 21, 14, 14, 21, 21, 29, 28, 14, 14, 29,// 5
+      28, 21, 21, 21, 29, 20, 20, 20, 20, 20, 28, 16, 12, 29, 20, 20, 20, 20, 20, 28, 16, 14, 14, 29, 28, 14, 14, 14, 14, 14, 14, 29, 30, 33, 14, 29,// 6
+      28, 18, 15, 15, 29, 28, 21, 21, 21, 21, 25, 16, 14, 24, 21, 21, 21, 21, 21, 21, 16, 14, 14, 29, 28, 14, 14, 14, 14, 14, 14, 29, 20, 28, 14, 29,// 7
+      28, 16, 12, 14, 21, 21, 18, 15, 15, 15, 15, 14, 14, 15, 15, 15, 15, 15, 15, 15, 14, 14, 14, 29, 28, 14, 14, 14, 14, 14, 14, 29, 28, 21, 14, 29,// 8
+      28, 16, 12, 13, 15, 15, 12, 12, 14, 14, 14, 14, 14, 14, 14, 14, 14, 14, 14, 14, 14, 14, 14, 29, 28, 14, 14, 14, 14, 14, 14, 29, 28, 14, 14, 29,// 9
+      28, 16, 12, 12, 12, 13, 13, 12, 12, 12, 12, 12, 12, 12, 12, 12, 14, 14, 14, 14, 14, 14, 14, 29, 28, 14, 14, 14, 14, 14, 14, 29, 28, 14, 32, 31,// 10
+      28, 16, 14, 14, 14, 14, 13, 13, 12, 12, 12, 12, 12, 12, 12, 12, 12, 12, 12, 32, 33, 14, 14, 29, 28, 14, 14, 14, 14, 14, 14, 29, 28, 14, 29, 20,// 11
+      28, 16, 12, 12, 14, 14, 13, 12, 12, 12, 12, 12, 12, 12, 12, 12, 12, 12, 12, 29, 28, 14, 14, 21, 21, 14, 14, 14, 14, 14, 14, 21, 21, 14, 21, 33,// 12
+      28, 16, 12, 12, 32, 33, 16, 12, 12, 12, 12, 12, 12, 12, 12, 12, 12, 12, 12, 29, 28, 14, 14, 14, 14, 14, 14, 14, 14, 14, 14, 14, 14, 14, 14, 36,// 13
+      30, 21, 21, 21, 31, 30, 21, 21, 33, 21, 21, 21, 32, 21, 21, 21, 21, 21, 21, 31, 28, 14, 14, 32, 33, 14, 14, 14, 14, 14, 14, 32, 21, 33, 14, 36,// 14
+      20, 20, 20, 20, 20, 20, 20, 20, 28, 14, 14, 14, 29, 20, 20, 20, 20, 20, 20, 20, 28, 14, 14, 29, 28, 14, 14, 14, 14, 14, 14, 29, 20, 28, 14, 36,// 15
+      28, 21, 21, 21, 21, 21, 21, 21, 21, 14, 14, 14, 21, 21, 21, 21, 21, 21, 21, 21, 21, 14, 14, 29, 28, 14, 14, 14, 14, 14, 14, 29, 20, 28, 14, 36,// 16
+      28, 14, 14, 14, 14, 14, 14, 14, 14, 14, 14, 14, 14, 14, 14, 14, 14, 14, 14, 14, 14, 14, 14, 29, 30, 21, 33, 14, 14, 32, 21, 31, 28, 21, 14, 32,// 17
+      28, 14, 14, 14, 14, 32, 21, 21, 33, 14, 14, 14, 14, 14, 14, 14, 14, 14, 14, 14, 14, 14, 14, 29, 20, 20, 28, 14, 14, 29, 20, 20, 28, 14, 14, 29,// 18
+      28, 14, 14, 14, 14, 29, 20, 20, 28, 14, 14, 14, 35, 21, 21, 21, 21, 21, 21, 35, 14, 14, 14, 21, 21, 21, 21, 14, 14, 21, 21, 21, 21, 14, 14, 29,//19
+      28, 14, 14, 14, 14, 29, 20, 20, 28, 14, 14, 14, 34, 14, 14, 12, 12, 12, 12, 34, 14, 14, 14, 14, 14, 14, 14, 14, 14, 14, 14, 14, 14, 14, 14, 29,// 20
+      28, 14, 14, 14, 14, 29, 20, 20, 30, 21, 21, 21, 37, 14, 14, 12, 12, 12, 12, 34, 21, 21, 21, 21, 33, 14, 14, 14, 14, 14, 32, 21, 33, 14, 14, 33,// 21
+      28, 14, 14, 14, 14, 29, 20, 20, 20, 20, 20, 20, 28, 14, 14, 12, 12, 12, 12, 34, 20, 20, 20, 20, 28, 14, 14, 14, 14, 14, 29, 20, 28, 14, 14, 36,// 22
+      28, 14, 32, 21, 21, 31, 20, 20, 20, 20, 20, 20, 28, 14, 14, 12, 12, 12, 12, 34, 20, 20, 20, 20, 28, 14, 14, 14, 14, 14, 29, 28, 21, 14, 14, 36,// 23
+      28, 14, 29, 20, 20, 20, 20, 20, 20, 20, 20, 20, 28, 14, 14, 12, 12, 12, 12, 34, 20, 20, 20, 20, 28, 14, 14, 14, 14, 14, 29, 28, 14, 14, 14, 36,// 24
+      28, 14, 21, 21, 21, 21, 21, 29, 20, 20, 20, 20, 28, 14, 14, 12, 12, 12, 12, 34, 20, 20, 20, 20, 28, 14, 14, 14, 14, 14, 29, 28, 14, 14, 14, 36,// 25
+      28, 14, 14, 14, 14, 14, 14, 29, 20, 28, 21, 21, 34, 14, 14, 12, 32, 21, 21, 37, 21, 21, 21, 21, 21, 21, 21, 21, 21, 21, 29, 30, 21, 33, 14, 36,// 26
+      30, 33, 14, 14, 14, 14, 14, 29, 20, 28, 14, 14, 21, 14, 14, 12, 29, 20, 20, 28, 14, 14, 14, 14, 14, 14, 14, 14, 14, 14, 29, 20, 20, 28, 14, 36,// 27
+      20, 28, 14, 14, 14, 14, 14, 21, 21, 21, 14, 14, 14, 14, 14, 12, 21, 21, 21, 21, 14, 32, 21, 21, 21, 21, 33, 14, 14, 14, 21, 21, 21, 21, 14, 36,// 28
+      20, 28, 14, 14, 14, 14, 14, 14, 14, 14, 14, 14, 32, 33, 14, 12, 14, 14, 14, 14, 14, 29, 20, 20, 20, 20, 28, 14, 14, 14, 14, 14, 14, 14, 14, 36,// 29
+      20, 30, 21, 21, 21, 21, 21, 21, 21, 21, 21, 21, 31, 30, 21, 21, 21, 21, 21, 21, 21, 31, 20, 20, 20, 20, 30, 21, 21, 21, 21, 21, 21, 21, 21, 21// 30
 
     ]; 
     
@@ -103,7 +103,11 @@ export default class Board {
       30: { type: "bottomCornerPillL", floor: this.floorTypes.solid, sprite: new Tile([194, 196], [70, 70]) },
       31: { type: "bottomCornerPillR", floor: this.floorTypes.solid, sprite: new Tile([283, 197], [70, 70]) },
       32: { type: "bottomCornerUpL", floor: this.floorTypes.solid, sprite: new Tile([368, 198], [70, 70]) },
-      33: { type: "bottomCornerUpR", floor: this.floorTypes.solid, sprite: new Tile([455, 198], [70, 70]) }
+      33: { type: "bottomCornerUpR", floor: this.floorTypes.solid, sprite: new Tile([455, 198], [70, 70]) },
+      34: { type: "narrowYL", floor: this.floorTypes.solid, sprite: new Tile([198, 308], [70, 70]) },
+      35: { type: "narrowRL", floor: this.floorTypes.solid, sprite: new Tile([101, 308], [70, 70]) },
+      36: { type: "mazeR", floor: this.floorTypes.walkable, sprite: new Tile([16, 310], [70, 70]) },
+      37: { type: "narrowCustom", floor: this.floorTypes.solid, sprite: new Tile([418, 308], [70, 70]) }
     };
 
     // this.directions = {
